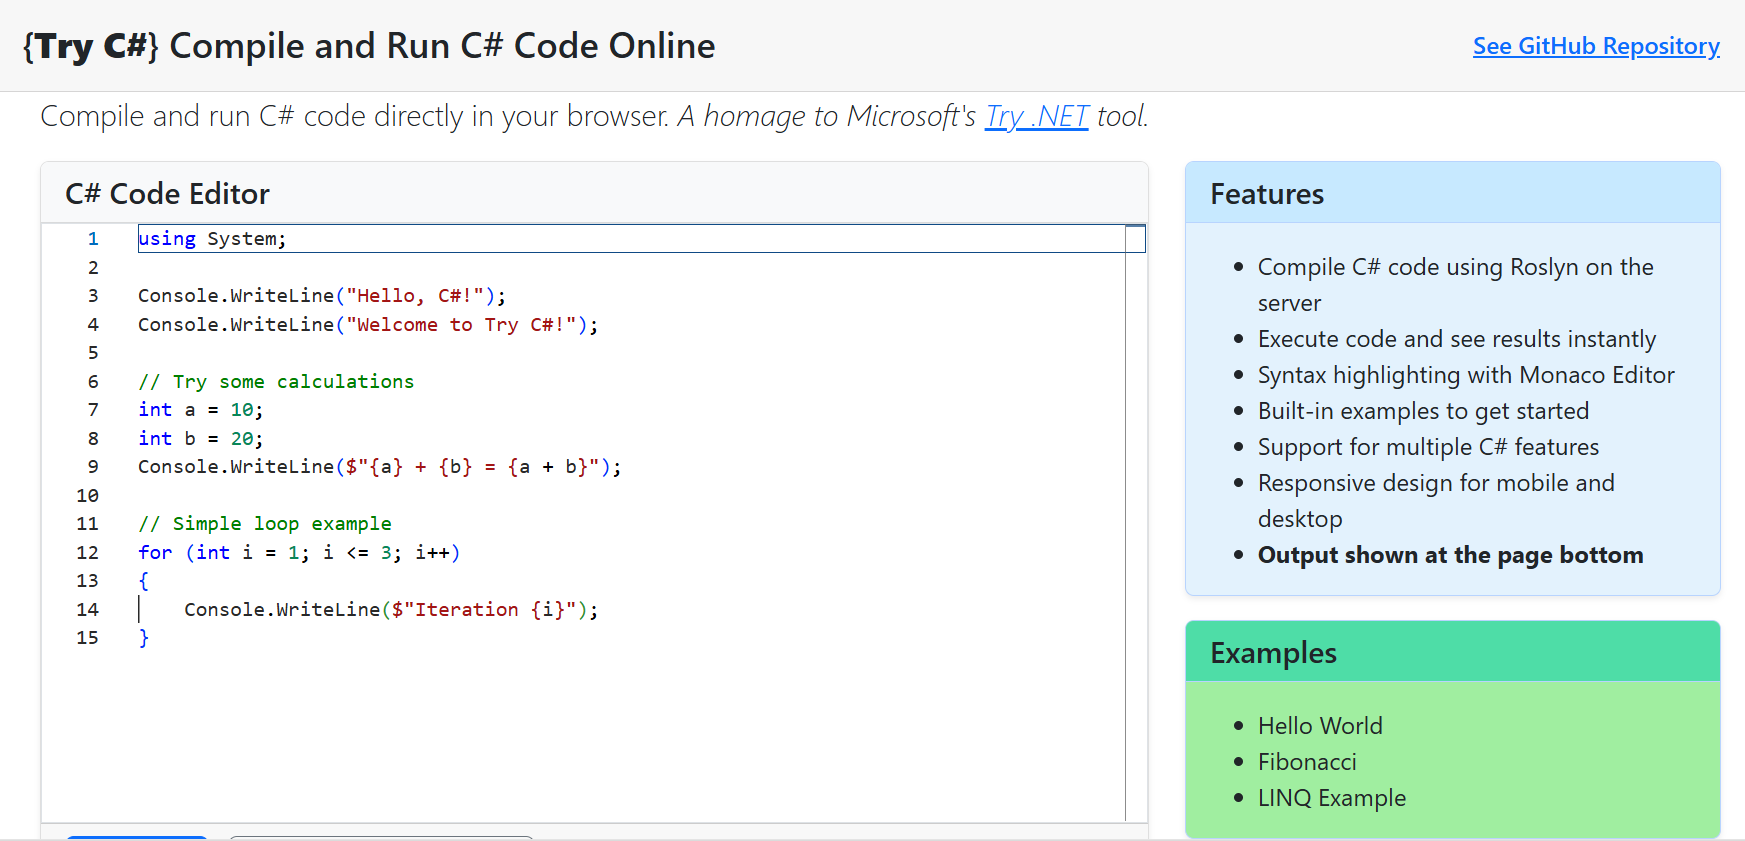
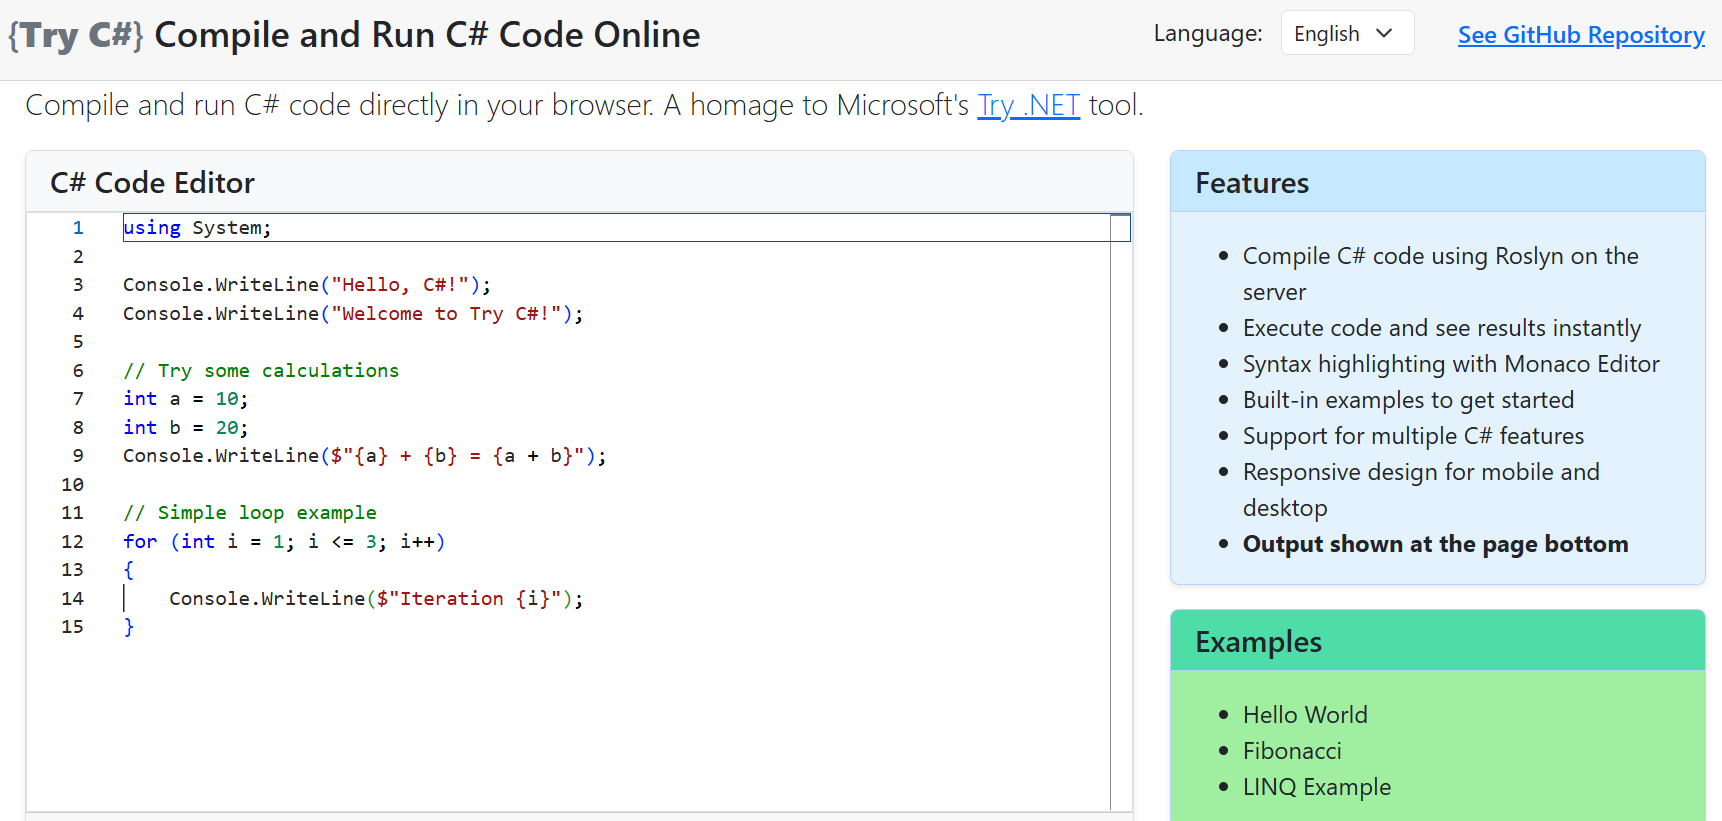
Improve project with Chinese support

diff --git a/wwwroot/js/localization.js b/wwwroot/js/localization.js
@@ -1,0 +1,103 @@
+// Language switching functions
+window.currentLanguage = 'en';
+
+window.translations = {
+    en: {
+        "AppName": "Try C#",
+        "AppSubtitle": "Compile and Run C# Code Online",
+        "HomePageTitle": "Try C# by Pac-Dessert1436",
+        "DescriptionFirst": "Compile and run C# code directly in your browser. A homage to Microsoft's",
+        "DescriptionSecond": " tool.",
+        "CardTitleCodeEditor": "C# Code Editor",
+        "ButtonRunCode": "Run Code",
+        "ButtonRunning": "Running...",
+        "ButtonReset": "Reset to Default Scaffold",
+        "CardTitleFeatures": "Features",
+        "Feature1": "Compile C# code using Roslyn on the server",
+        "Feature2": "Execute code and see results instantly",
+        "Feature3": "Syntax highlighting with Monaco Editor",
+        "Feature4": "Built-in examples to get started",
+        "Feature5": "Support for multiple C# features",
+        "Feature6": "Responsive design for mobile and desktop",
+        "Feature7": "Output shown at the page bottom",
+        "CardTitleExamples": "Examples",
+        "ExampleHelloWorld": "Hello World",
+        "ExampleFibonacci": "Fibonacci",
+        "ExampleLinq": "LINQ Example",
+        "CardTitleOutput": "Output",
+        "OutputPlaceholder": "Output will appear here...",
+        "GitHubLinkText": "See GitHub Repository",
+        "LanguageSwitcherLabel": "Language:",
+        "LanguageEnglish": "English",
+        "LanguageChinese": "中文"
+    },
+    "zh-CN": {
+        "AppName": "尝试 C#",
+        "AppSubtitle": "在线编译和运行 C# 代码",
+        "HomePageTitle": "Try C# by Pac-Dessert1436",
+        "DescriptionFirst": "直接在浏览器中编译和运行 C# 代码。致敬微软的",
+        "DescriptionSecond": " 工具。",
+        "CardTitleCodeEditor": "C# 代码编辑器",
+        "ButtonRunCode": "运行代码",
+        "ButtonRunning": "正在运行...",
+        "ButtonReset": "重置为默认模板",
+        "CardTitleFeatures": "功能特性",
+        "Feature1": "使用服务器端的 Roslyn 编译 C# 代码",
+        "Feature2": "执行代码并立即查看结果",
+        "Feature3": "Monaco 编辑器提供语法高亮",
+        "Feature4": "内置示例帮助入门",
+        "Feature5": "支持多种 C# 功能",
+        "Feature6": "响应式设计，支持移动和桌面设备",
+        "Feature7": "输出显示在页面底部",
+        "CardTitleExamples": "示例",
+        "ExampleHelloWorld": "你好世界",
+        "ExampleFibonacci": "斐波那契数列",
+        "ExampleLinq": "LINQ 示例",
+        "CardTitleOutput": "输出",
+        "OutputPlaceholder": "输出将显示在此处...",
+        "GitHubLinkText": "查看 GitHub 仓库",
+        "LanguageSwitcherLabel": "语言：",
+        "LanguageEnglish": "English",
+        "LanguageChinese": "中文"
+    }
+};
+
+window.switchLanguage = function(language) {
+    console.log('Switching language to:', language);
+    window.currentLanguage = language;
+    
+    // Save to localStorage
+    localStorage.setItem('culture', language);
+    
+    // Update all elements with data-translate attribute
+    var elements = document.querySelectorAll('[data-translate]');
+    console.log('Found', elements.length, 'elements to translate');
+    
+    elements.forEach(function(element) {
+        var key = element.getAttribute('data-translate');
+        if (window.translations[language] && window.translations[language][key]) {
+            console.log('Translating', key, 'to', window.translations[language][key]);
+            element.textContent = window.translations[language][key];
+        } else {
+            console.log('No translation found for', key);
+        }
+    });
+};
+
+// Initialize language on page load
+document.addEventListener('DOMContentLoaded', function() {
+    var savedLanguage = localStorage.getItem('culture') || 'en';
+    console.log('Initializing language:', savedLanguage);
+    if (savedLanguage !== 'en') {
+        window.switchLanguage(savedLanguage);
+    }
+});
+
+// Get translation value for Blazor components
+window.getTranslation = function(key) {
+    var lang = window.currentLanguage || 'en';
+    if (window.translations[lang] && window.translations[lang][key]) {
+        return window.translations[lang][key];
+    }
+    return key;
+};

diff --git a/wwwroot/css/site.css b/wwwroot/css/site.css
@@ -33,6 +33,17 @@ body {
     margin: 0;
     font-size: 1.5rem;
     font-weight: 600;
+    user-select: none;
+    -webkit-user-select: none;
+}
+
+.title-with-logo {
+    display: inline-flex;
+    align-items: center;
+}
+
+.title-with-logo .logo-part {
+    color: #6c757d;
 }
 
 .top-row ::deep a,
@@ -52,11 +63,14 @@ body {
     font-family: 'Consolas', 'Courier New', monospace;
     font-size: 14px;
     line-height: 1.4;
-    background-color: #1e1e1e;
-    color: #d4d4d4;
-    border: 1px solid #ccc;
+    background-color: #f8f9fa;
+    color: #212529;
+    border: 1px solid #dee2e6;
     border-radius: 4px;
     padding: 15px;
+    height: 300px;
+    overflow-y: auto;
+    white-space: pre-wrap;
 }
 
 .card {
@@ -142,26 +156,14 @@ body {
 }
 
 .output-area::-webkit-scrollbar-track {
-    background: #2d2d2d;
+    background: #e9ecef;
 }
 
 .output-area::-webkit-scrollbar-thumb {
-    background: #555;
+    background: #adb5bd;
     border-radius: 4px;
 }
 
 .output-area::-webkit-scrollbar-thumb:hover {
-    background: #777;
-}
-
-.output-area {
-    height: 300px;
-    overflow-y: auto;
-    white-space: pre-wrap;
-    font-family: 'Consolas', monospace;
-    background-color: #f8f9fa;
-    padding: 15px;
-    border-radius: 4px;
-    border: 1px solid #dee2e6;
-    color: black;
+    background: #6c757d;
 }

diff --git a/Program.cs b/Program.cs
@@ -43,6 +43,4 @@ app.MapRazorPages();
 app.MapControllers();
 app.MapBlazorHub();
 app.MapFallbackToPage("/_Host");
-
-// Configure the application to listen on port 5001
-app.Run($"http://*:5001");
+app.Run();

diff --git a/README.md b/README.md
@@ -8,16 +8,22 @@ The application is now **feature-complete and production-ready**! It is hosted o
 
 ![](screenshot.png)
 
-## Features
+## 🌍 Languages
+
+- **English**: Primary language
+- **中文 (Chinese)**: Fully supported with language switcher
+
+## ✨ Features
 
 - **C# Code Compilation**: Uses Roslyn compiler services to compile C# code on the server
 - **Real-time Execution**: Runs compiled code and returns results instantly
 - **Monaco Editor**: Professional code editor with syntax highlighting and IntelliSense-like features
 - **Real-time Output**: See execution results immediately in the browser
+- **Language Switcher**: Switch between English and Chinese interfaces
 - **Built-in Examples**: Learn C# with ready-to-run examples
 - **Responsive Design**: Works on both desktop and mobile devices
 
-## Quick Start
+## 🚀 Quick Start
 
 ### Prerequisites
 
@@ -41,7 +47,7 @@ dotnet run
 
 3. Open your browser to the `localhost` port shown in the console (typically `https://localhost:7000`).
 
-## How It Works
+## 🔧 How It Works
 
 ### Architecture
 
@@ -49,6 +55,7 @@ dotnet run
 - **Code Editor**: Monaco Editor with C# language support
 - **Compiler**: Microsoft.CodeAnalysis.CSharp.Scripting for server-side compilation
 - **Execution**: .NET runtime on the server
+- **Localization**: L support with resource files
 
 ### Key Components
 
@@ -56,17 +63,18 @@ dotnet run
 2. **Roslyn Scripting**: Compiles and executes C# code dynamically on the server
 3. **API Endpoint**: `/api/code/run` handles code compilation and execution requests
 4. **Console Output Capture**: Redirects Console.WriteLine output to the browser
-5. **Error Handling**: Comprehensive error reporting for compilation and runtime errors
+5. **Internationalization**: Language switching between English and Chinese
+6. **Error Handling**: Comprehensive error reporting for compilation and runtime errors
 
-## Built-in Examples
+## 📚 Built-in Examples
 
-The application includes three rudimentary C# examples:
+The application includes three comprehensive C# examples:
 
 - **Hello World**: Basic console output
 - **Fibonacci Sequence**: Mathematical algorithm demonstration
 - **LINQ Operations**: Modern C# features with LINQ
 
-## Technology Stack
+## 🛠️ Technology Stack
 
 - **.NET 8.0**: Latest .NET framework
 - **Blazor Server**: Server-side web framework with SignalR
@@ -74,7 +82,7 @@ The application includes three rudimentary C# examples:
 - **Monaco Editor**: VS Code's editor component
 - **Bootstrap 5**: Responsive UI framework
 
-## Contributing
+## 🤝 Contributing
 
 Contributions are welcome! Please feel free to submit issues, feature requests, or pull requests.
 
@@ -86,17 +94,20 @@ Contributions are welcome! Please feel free to submit issues, feature requests, 
 4. Test locally
 5. Submit a pull request
 
-## License
+## 📄 License
 
 This project is licensed under the BSD 3-Clause License. See the [LICENSE](LICENSE) file for details.
 
-## Acknowledgments
+## 🙏 Acknowledgments
 
 - Inspired by Microsoft's "Try .NET" project
 - Built with Blazor Server and Roslyn compiler services
 - Monaco Editor for the code editing experience
+- Community contributions for bilingual support
 
-## Support
+## 🆘 Support
+
+For support, please open an issue in the GitHub repository.
 
 If you encounter any issues or have questions:
 